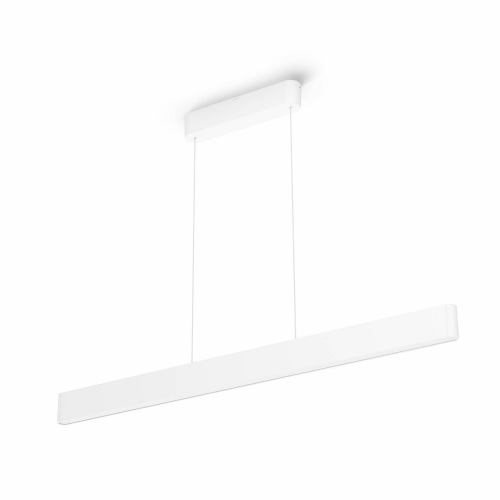
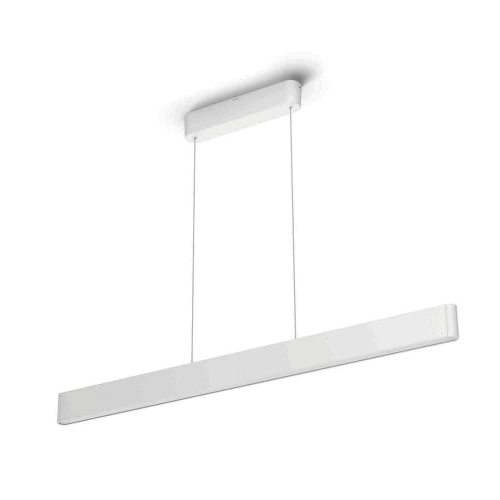
Added Hue Ensis Pendant with separate upper and lower light

diff --git a/README.md b/README.md
@@ -4,11 +4,17 @@ Philips Hue bulbs support without Bridge for Homey
 
 ## Release notes:
 
+### v1.5.4
+
+Added support for:
+
+- Hue Ensis Pendant, Upper and Lower light version
+
 ### v1.5.3
 
 Added support for:
 
-- Hue Fuzo Outdoor Wall Light (one piece version)
+- Hue Fuzo Outdoor Wall Light (open front version)
 
 ### v1.5.2
 
@@ -19,7 +25,7 @@ Added support for:
 - Hue Impress Path Light
 - Hue Fugato Double Spotlight
 - Hue Calla Outdoor Path Light
-- Hue Fuzo Outdoor Wall Light
+- Hue Fuzo Outdoor Wall Light (splitt front version)
 - Hue Impress Outdoor Wall Light
 
 Fixes:
